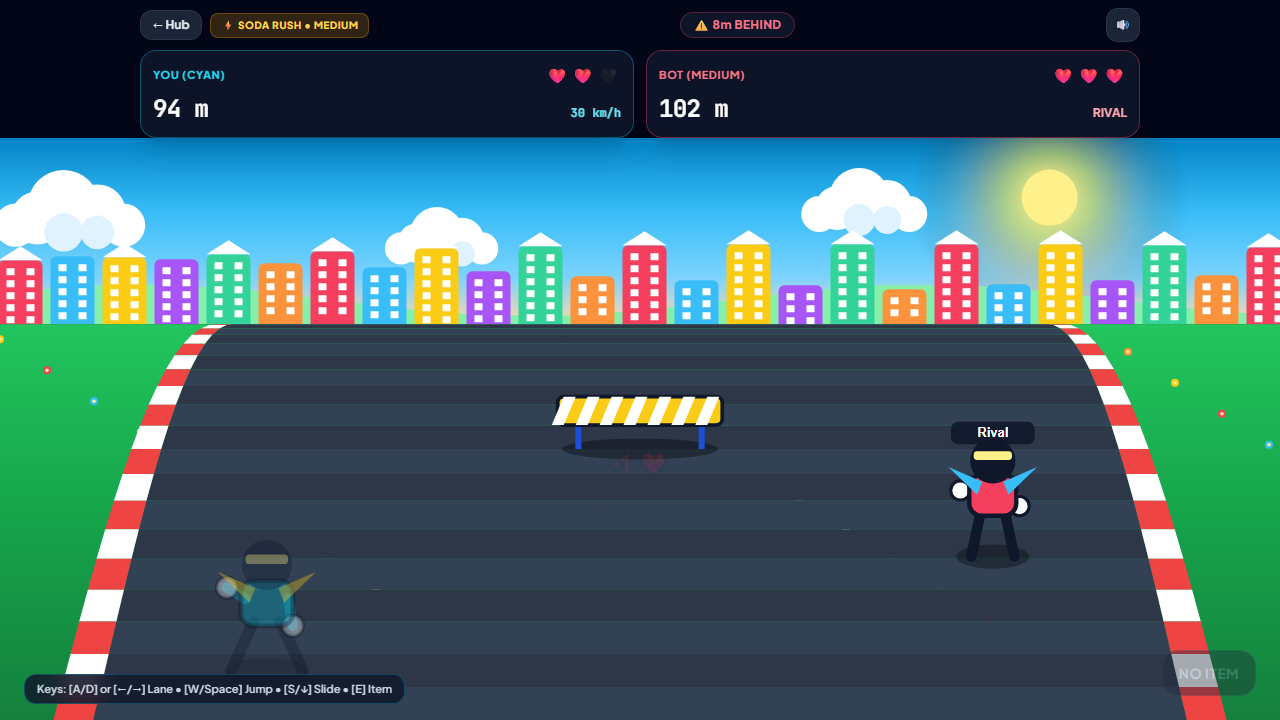
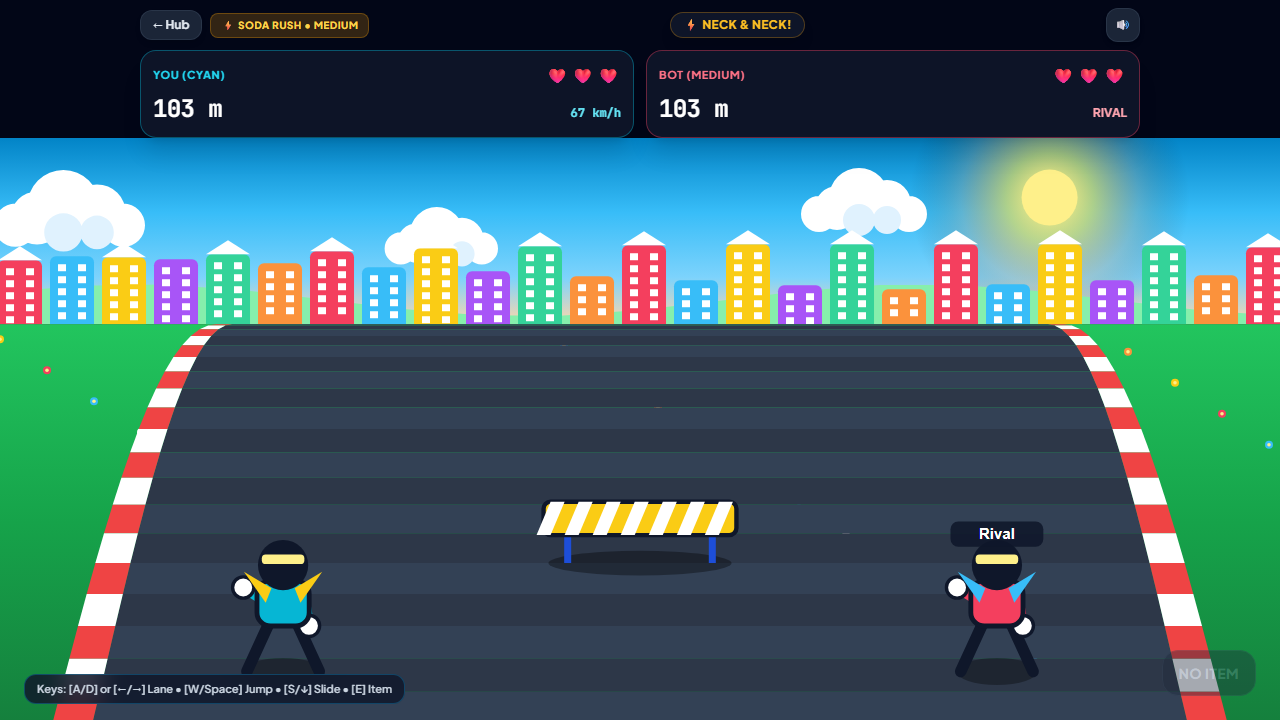
fix(soda-dash): scale obstacle and item widths to lane spacing to prevent center overlap on mobile

diff --git a/src/games/soda-dash/renderers/SodaDashRenderer.ts b/src/games/soda-dash/renderers/SodaDashRenderer.ts
@@ -404,18 +404,21 @@ export class SodaDashRenderer {
     switch (item.type) {
       case 'HURDLE': {
         // High-Contrast Yellow & Orange Hurdle Barricade
-        const hw = 110 * s;
-        const hh = 70 * s;
+        // Hurdle width bounded to lane with clean spacing to prevent overlap
+        const maxHw = p.laneSpacing * 0.38;
+        const hw = Math.min(110 * s, maxHw);
+        const sEff = hw / 110;
+        const hh = 70 * sEff;
 
         // Ground Shadow
         ctx.fillStyle = 'rgba(0, 0, 0, 0.35)';
         ctx.beginPath();
-        ctx.ellipse(0, 0, hw * 0.95, 14 * s, 0, 0, Math.PI * 2);
+        ctx.ellipse(0, 0, hw * 0.95, 14 * sEff, 0, 0, Math.PI * 2);
         ctx.fill();
 
         // Strong Feet
         ctx.strokeStyle = '#1d4ed8';
-        ctx.lineWidth = Math.max(3, 8 * s);
+        ctx.lineWidth = Math.max(3, 8 * sEff);
         ctx.beginPath();
         ctx.moveTo(-hw * 0.75, 0);
         ctx.lineTo(-hw * 0.75, -hh);
@@ -426,20 +429,22 @@ export class SodaDashRenderer {
         // High-Contrast Board with Bold Cartoon Outline
         ctx.fillStyle = '#facc15';
         ctx.strokeStyle = '#0f172a';
-        ctx.lineWidth = Math.max(2.5, 5 * s);
+        ctx.lineWidth = Math.max(2.5, 5 * sEff);
         ctx.beginPath();
-        ctx.roundRect(-hw, -hh, hw * 2, 38 * s, 8 * s);
+        ctx.roundRect(-hw, -hh, hw * 2, 38 * sEff, 8 * sEff);
         ctx.fill();
         ctx.stroke();
 
         // Pure White Hazard Stripes
         ctx.fillStyle = '#ffffff';
-        for (let x = -hw + 8 * s; x < hw - 8 * s; x += 32 * s) {
+        const stripeStep = 32 * sEff;
+        const stripeW = 16 * sEff;
+        for (let x = -hw + 8 * sEff; x < hw - 8 * sEff; x += stripeStep) {
           ctx.beginPath();
           ctx.moveTo(x, -hh);
-          ctx.lineTo(x + 16 * s, -hh);
-          ctx.lineTo(x, -hh + 38 * s);
-          ctx.lineTo(x - 16 * s, -hh + 38 * s);
+          ctx.lineTo(x + stripeW, -hh);
+          ctx.lineTo(x, -hh + 38 * sEff);
+          ctx.lineTo(x - stripeW, -hh + 38 * sEff);
           ctx.fill();
         }
         break;
@@ -447,16 +452,18 @@ export class SodaDashRenderer {
 
       case 'OVERHEAD': {
         // Cheerful Slide Overhead Arch
-        const pw = 140 * s;
-        const pipeY = -135 * s;
+        const maxPw = p.laneSpacing * 0.44;
+        const pw = Math.min(140 * s, maxPw);
+        const sEff = pw / 140;
+        const pipeY = -135 * sEff;
 
         // Shadow
         ctx.fillStyle = 'rgba(0, 0, 0, 0.3)';
-        ctx.fillRect(-pw - 6 * s, -6 * s, (pw + 6 * s) * 2, 10 * s);
+        ctx.fillRect(-pw - 6 * sEff, -6 * sEff, (pw + 6 * sEff) * 2, 10 * sEff);
 
         // Striped Golden Posts
         ctx.strokeStyle = '#facc15';
-        ctx.lineWidth = Math.max(2.5, 9 * s);
+        ctx.lineWidth = Math.max(2.5, 9 * sEff);
         ctx.beginPath();
         ctx.moveTo(-pw, 0);
         ctx.lineTo(-pw, pipeY);
@@ -467,60 +474,63 @@ export class SodaDashRenderer {
         // Bold Outline for Banner
         ctx.fillStyle = '#ef4444';
         ctx.strokeStyle = '#0f172a';
-        ctx.lineWidth = Math.max(2, 4 * s);
+        ctx.lineWidth = Math.max(2, 4 * sEff);
         ctx.beginPath();
-        ctx.roundRect(-pw - 8 * s, pipeY - 18 * s, (pw + 8 * s) * 2, 36 * s, 8 * s);
+        ctx.roundRect(-pw - 8 * sEff, pipeY - 18 * sEff, (pw + 8 * sEff) * 2, 36 * sEff, 8 * sEff);
         ctx.fill();
         ctx.stroke();
 
         // Yellow Center Plaque
         ctx.fillStyle = '#fef08a';
         ctx.beginPath();
-        ctx.roundRect(-48 * s, pipeY - 13 * s, 96 * s, 26 * s, 6 * s);
+        const plaqueW = Math.min(96 * sEff, pw * 1.5);
+        ctx.roundRect(-plaqueW * 0.5, pipeY - 13 * sEff, plaqueW, 26 * sEff, 6 * sEff);
         ctx.fill();
 
         ctx.fillStyle = '#0f172a';
-        ctx.font = `900 ${Math.max(9, (18 * s) | 0)}px sans-serif`;
+        ctx.font = `900 ${Math.max(8, (18 * sEff) | 0)}px sans-serif`;
         ctx.textAlign = 'center';
-        ctx.fillText('🔻 SLIDE! 🔻', 0, pipeY + 7 * s);
+        ctx.fillText('🔻 SLIDE! 🔻', 0, pipeY + 7 * sEff);
         break;
       }
 
       case 'DUMPSTER': {
         // High-Contrast Toy Soda Crate
-        const dw = 95 * s;
-        const dh = 115 * s;
+        const maxDw = p.laneSpacing * 0.36;
+        const dw = Math.min(95 * s, maxDw);
+        const sEff = dw / 95;
+        const dh = 115 * sEff;
 
         // Drop Shadow
         ctx.fillStyle = 'rgba(0, 0, 0, 0.35)';
         ctx.beginPath();
-        ctx.ellipse(0, 0, dw * 0.95, 16 * s, 0, 0, Math.PI * 2);
+        ctx.ellipse(0, 0, dw * 0.95, 16 * sEff, 0, 0, Math.PI * 2);
         ctx.fill();
 
         // Bold Cartoon Blue Crate Body
         ctx.fillStyle = '#2563eb';
         ctx.strokeStyle = '#0f172a';
-        ctx.lineWidth = Math.max(2.5, 6 * s);
+        ctx.lineWidth = Math.max(2.5, 6 * sEff);
         ctx.beginPath();
-        ctx.roundRect(-dw, -dh, dw * 2, dh, 14 * s);
+        ctx.roundRect(-dw, -dh, dw * 2, dh, 14 * sEff);
         ctx.fill();
         ctx.stroke();
 
         // Orange Inset Frame
         ctx.fillStyle = '#f97316';
         ctx.beginPath();
-        ctx.roundRect(-dw + 9 * s, -dh + 12 * s, dw * 2 - 18 * s, dh - 24 * s, 10 * s);
+        ctx.roundRect(-dw + 9 * sEff, -dh + 12 * sEff, dw * 2 - 18 * sEff, dh - 24 * sEff, 10 * sEff);
         ctx.fill();
 
         // Cyan Inset Panel
         ctx.fillStyle = '#38bdf8';
         ctx.beginPath();
-        ctx.roundRect(-dw + 16 * s, -dh + 19 * s, dw * 2 - 32 * s, dh - 38 * s, 8 * s);
+        ctx.roundRect(-dw + 16 * sEff, -dh + 19 * sEff, dw * 2 - 32 * sEff, dh - 38 * sEff, 8 * sEff);
         ctx.fill();
 
         // Golden Star Emblem
         ctx.fillStyle = '#fef08a';
-        ctx.font = `bold ${Math.max(14, (32 * s) | 0)}px sans-serif`;
+        ctx.font = `bold ${Math.max(12, (32 * sEff) | 0)}px sans-serif`;
         ctx.textAlign = 'center';
         ctx.textBaseline = 'middle';
         ctx.fillText('⭐', 0, -dh * 0.5);
@@ -528,9 +538,9 @@ export class SodaDashRenderer {
         // Top Lid Handle
         ctx.fillStyle = '#facc15';
         ctx.strokeStyle = '#0f172a';
-        ctx.lineWidth = Math.max(2, 4 * s);
+        ctx.lineWidth = Math.max(2, 4 * sEff);
         ctx.beginPath();
-        ctx.roundRect(-dw * 0.5, -dh - 10 * s, dw, 12 * s, 6 * s);
+        ctx.roundRect(-dw * 0.5, -dh - 10 * sEff, dw, 12 * sEff, 6 * sEff);
         ctx.fill();
         ctx.stroke();
         break;
@@ -539,7 +549,10 @@ export class SodaDashRenderer {
       case 'PUDDLE':
       case 'SODA_SPILL': {
         // Sparkling Fizzy Soda Splash
-        const pr = 88 * s;
+        const maxPr = p.laneSpacing * 0.36;
+        const pr = Math.min(88 * s, maxPr);
+        const sEff = pr / 88;
+
         ctx.fillStyle = item.type === 'SODA_SPILL' ? 'rgba(244, 63, 94, 0.82)' : 'rgba(192, 132, 252, 0.8)';
         ctx.beginPath();
         ctx.ellipse(0, 0, pr, pr * 0.36, 0, 0, Math.PI * 2);
@@ -548,37 +561,39 @@ export class SodaDashRenderer {
         // Bubble specks
         ctx.fillStyle = '#ffffff';
         ctx.beginPath();
-        ctx.arc(-pr * 0.4, 0, 3.5 * s, 0, Math.PI * 2);
-        ctx.arc(pr * 0.3, -2 * s, 3 * s, 0, Math.PI * 2);
-        ctx.arc(pr * 0.1, 3 * s, 4 * s, 0, Math.PI * 2);
+        ctx.arc(-pr * 0.4, 0, 3.5 * sEff, 0, Math.PI * 2);
+        ctx.arc(pr * 0.3, -2 * sEff, 3 * sEff, 0, Math.PI * 2);
+        ctx.arc(pr * 0.1, 3 * sEff, 4 * sEff, 0, Math.PI * 2);
         ctx.fill();
 
         // Rim highlight
         ctx.strokeStyle = '#ffffff';
-        ctx.lineWidth = Math.max(1.5, 3.5 * s);
+        ctx.lineWidth = Math.max(1.5, 3.5 * sEff);
         ctx.stroke();
         break;
       }
 
       case 'SPEED_PAD': {
         // Supercharged Lime Boost Strip
-        const bw = 76 * s;
-        const bh = 96 * s;
+        const maxBw = p.laneSpacing * 0.36;
+        const bw = Math.min(76 * s, maxBw);
+        const sEff = bw / 76;
+        const bh = 96 * sEff;
 
         ctx.fillStyle = 'rgba(74, 222, 128, 0.35)';
         ctx.beginPath();
-        ctx.roundRect(-bw, -bh * 0.5, bw * 2, bh, 10 * s);
+        ctx.roundRect(-bw, -bh * 0.5, bw * 2, bh, 10 * sEff);
         ctx.fill();
 
         ctx.fillStyle = '#22c55e';
-        for (let cy = -bh * 0.4; cy < bh * 0.4; cy += 30 * s) {
+        for (let cy = -bh * 0.4; cy < bh * 0.4; cy += 30 * sEff) {
           ctx.beginPath();
-          ctx.moveTo(0, cy - 14 * s);
-          ctx.lineTo(bw * 0.75, cy + 8 * s);
-          ctx.lineTo(bw * 0.5, cy + 8 * s);
-          ctx.lineTo(0, cy - 4 * s);
-          ctx.lineTo(-bw * 0.5, cy + 8 * s);
-          ctx.lineTo(-bw * 0.75, cy + 8 * s);
+          ctx.moveTo(0, cy - 14 * sEff);
+          ctx.lineTo(bw * 0.75, cy + 8 * sEff);
+          ctx.lineTo(bw * 0.5, cy + 8 * sEff);
+          ctx.lineTo(0, cy - 4 * sEff);
+          ctx.lineTo(-bw * 0.5, cy + 8 * sEff);
+          ctx.lineTo(-bw * 0.75, cy + 8 * sEff);
           ctx.closePath();
           ctx.fill();
         }
@@ -587,9 +602,11 @@ export class SodaDashRenderer {
 
       case 'HEART': {
         // Glowing Strawberry Soda Life Can (+1 Heart)
-        const cw = 38 * s;
-        const ch = 66 * s;
-        const floatY = -42 * s + Math.sin(Date.now() * 0.006 + item.z) * 8 * s;
+        const maxCw = p.laneSpacing * 0.28;
+        const cw = Math.min(38 * s, maxCw);
+        const sEff = cw / 38;
+        const ch = 66 * sEff;
+        const floatY = -42 * sEff + Math.sin(Date.now() * 0.006 + item.z) * 8 * sEff;
 
         // Radiant Golden Aura Halo
         const auraGrad = ctx.createRadialGradient(0, floatY - ch * 0.5, 6, 0, floatY - ch * 0.5, cw * 2.2);
@@ -601,31 +618,31 @@ export class SodaDashRenderer {
         // Ground Drop Shadow
         ctx.fillStyle = 'rgba(0, 0, 0, 0.3)';
         ctx.beginPath();
-        ctx.ellipse(0, 0, cw * 1.1, 9 * s, 0, 0, Math.PI * 2);
+        ctx.ellipse(0, 0, cw * 1.1, 9 * sEff, 0, 0, Math.PI * 2);
         ctx.fill();
 
         // Strawberry Red Can with Bold Cartoon Outline
         ctx.fillStyle = '#ef4444';
         ctx.strokeStyle = '#0f172a';
-        ctx.lineWidth = Math.max(2.5, 5 * s);
+        ctx.lineWidth = Math.max(2.5, 5 * sEff);
         ctx.beginPath();
-        ctx.roundRect(-cw, floatY - ch, cw * 2, ch, 14 * s);
+        ctx.roundRect(-cw, floatY - ch, cw * 2, ch, 14 * sEff);
         ctx.fill();
         ctx.stroke();
 
         // Golden Sparkling Rims
         ctx.fillStyle = '#fde047';
-        ctx.fillRect(-cw + 2 * s, floatY - ch + 2 * s, cw * 2 - 4 * s, 8 * s);
-        ctx.fillRect(-cw + 2 * s, floatY - 9 * s, cw * 2 - 4 * s, 8 * s);
+        ctx.fillRect(-cw + 2 * sEff, floatY - ch + 2 * sEff, cw * 2 - 4 * sEff, 8 * sEff);
+        ctx.fillRect(-cw + 2 * sEff, floatY - 9 * sEff, cw * 2 - 4 * sEff, 8 * sEff);
 
         // Heart Symbol
-        ctx.font = `bold ${Math.max(16, (36 * s) | 0)}px sans-serif`;
+        ctx.font = `bold ${Math.max(14, (36 * sEff) | 0)}px sans-serif`;
         ctx.textAlign = 'center';
         ctx.textBaseline = 'middle';
         ctx.fillText('❤', 0, floatY - ch * 0.5);
 
         // Twinkling stars
-        ctx.font = `bold ${Math.max(12, (22 * s) | 0)}px sans-serif`;
+        ctx.font = `bold ${Math.max(10, (22 * sEff) | 0)}px sans-serif`;
         ctx.fillText('✨', -cw * 1.3, floatY - ch * 0.8);
         ctx.fillText('✨', cw * 1.3, floatY - ch * 0.2);
         break;
@@ -634,30 +651,32 @@ export class SodaDashRenderer {
       case 'FIZZ_TURBO':
       case 'BUBBLE_SHIELD': {
         // Sparkling Rainbow Mystery Box
-        const bw = 46 * s;
-        const floatY = -50 * s + Math.sin(Date.now() * 0.005 + item.z) * 8 * s;
+        const maxBw = p.laneSpacing * 0.30;
+        const bw = Math.min(46 * s, maxBw);
+        const sEff = bw / 46;
+        const floatY = -50 * sEff + Math.sin(Date.now() * 0.005 + item.z) * 8 * sEff;
 
         // Shadow
         ctx.fillStyle = 'rgba(0, 0, 0, 0.28)';
         ctx.beginPath();
-        ctx.ellipse(0, 0, bw * 1.1, 9 * s, 0, 0, Math.PI * 2);
+        ctx.ellipse(0, 0, bw * 1.1, 9 * sEff, 0, 0, Math.PI * 2);
         ctx.fill();
 
         ctx.fillStyle = item.type === 'FIZZ_TURBO' ? '#f59e0b' : '#3b82f6';
         ctx.strokeStyle = '#0f172a';
-        ctx.lineWidth = Math.max(2.5, 5 * s);
+        ctx.lineWidth = Math.max(2.5, 5 * sEff);
         ctx.beginPath();
-        ctx.roundRect(-bw, floatY - bw * 2, bw * 2, bw * 2, 14 * s);
+        ctx.roundRect(-bw, floatY - bw * 2, bw * 2, bw * 2, 14 * sEff);
         ctx.fill();
         ctx.stroke();
 
         // Inner Gold Border
         ctx.strokeStyle = '#fde047';
-        ctx.lineWidth = Math.max(2, 4 * s);
-        ctx.strokeRect(-bw + 4 * s, floatY - bw * 2 + 4 * s, bw * 2 - 8 * s, bw * 2 - 8 * s);
+        ctx.lineWidth = Math.max(2, 4 * sEff);
+        ctx.strokeRect(-bw + 4 * sEff, floatY - bw * 2 + 4 * sEff, bw * 2 - 8 * sEff, bw * 2 - 8 * sEff);
 
         ctx.fillStyle = '#ffffff';
-        ctx.font = `bold ${Math.max(18, (34 * s) | 0)}px sans-serif`;
+        ctx.font = `bold ${Math.max(14, (34 * sEff) | 0)}px sans-serif`;
         ctx.textAlign = 'center';
         ctx.textBaseline = 'middle';
         ctx.fillText(item.type === 'FIZZ_TURBO' ? '⚡' : '🛡', 0, floatY - bw);
@@ -1008,7 +1027,7 @@ export class SodaDashRenderer {
     height: number,
     horizonY: number,
     vanishX: number
-  ): { x: number; y: number; scale: number; halfW: number; isBeyondCrest: boolean } {
+  ): { x: number; y: number; scale: number; halfW: number; laneSpacing: number; isBeyondCrest: boolean } {
     const isMobile = width < 768 || height > width;
     const zCrest = isMobile ? 28 : 38;
     const yBottom = height + 8;
@@ -1027,11 +1046,15 @@ export class SodaDashRenderer {
 
     // Flat width: only tapers gently (24% on mobile, 28% on desktop)
     const halfW = roadHalfWidthBottom - (roadHalfWidthBottom - roadHalfWidthCrest) * u;
-    const laneSpacing = halfW * 0.65;
 
     // Scale along convex curve
     const baseScale = isMobile ? 1.42 : 1.0;
     const s = baseScale * (1.0 - 0.60 * Math.pow(u, 1.2));
+
+    // Curb width scales with distance; lanes are mathematically centered on asphalt
+    const curbW = Math.max(5, 40 * (s / baseScale));
+    const asphaltHalfW = Math.max(30, halfW - curbW);
+    const laneSpacing = asphaltHalfW * (2 / 3);
 
     const x = vanishX + laneX * laneSpacing;
     const y = groundY - trackY * 130 * s;
@@ -1041,6 +1064,7 @@ export class SodaDashRenderer {
       y,
       scale: s,
       halfW,
+      laneSpacing,
       isBeyondCrest: relZ > zCrest
     };
   }

diff --git a/src/games/soda-dash/SodaDashGame.ts b/src/games/soda-dash/SodaDashGame.ts
@@ -66,6 +66,7 @@ export class SodaDashGame implements GameInstance {
 
     this.startTime = Date.now();
     this.lastTime = performance.now();
+    (window as any).__sodaDashGame = this;
     this.startLoop();
   }
 
@@ -656,6 +657,9 @@ export class SodaDashGame implements GameInstance {
     }
 
     this.ai?.destroy();
+    if ((window as any).__sodaDashGame === this) {
+      delete (window as any).__sodaDashGame;
+    }
     document.body.style.backgroundColor = '';
   }
 }
